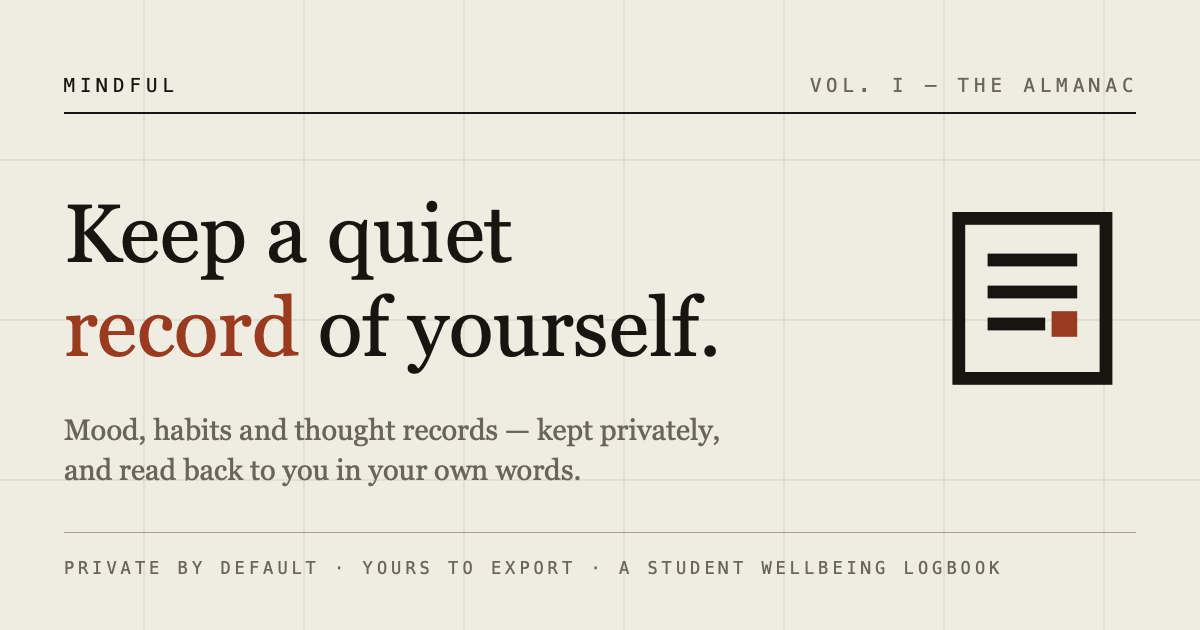
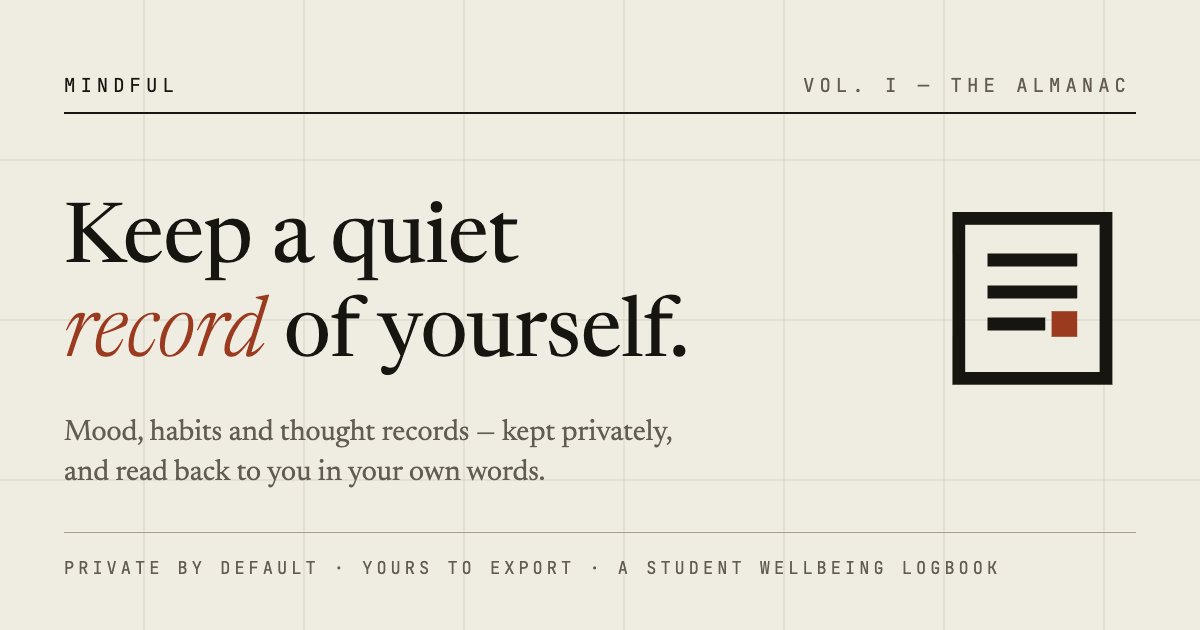
Finish the pages: short running head, a readable calendar on touch, an italic share image (batch 4)
- D2: on touch screens the habit calendar's 14px cells are display-only (no
  tap stop, tooltip or hover zoom), and the same day-by-day detail is offered
  as text in 'Read the calendar as a list' beneath them. That detail was never
  reachable by screen readers before; now it is.
- B3: phones show the short date in the masthead ('2 Oct 2026') instead of
  a long one cut mid-word.
- B9: the register shows '—', not '0/0 done today', while it loads.
- B12: the reading's load error is labelled like every other page's.
- A11: the pages' static inline styles are classes on tokens.
- The mood chart's range handle is 44px tall on touch (24px handles).
- B14: public/og-image.png is rendered in the browser (scripts/render-og-image.mjs)
  so 'record' is italic Newsreader, as on the site; the source uses the new
  --muted.

diff --git a/src/frontend/components/HabitHeatmap.jsx b/src/frontend/components/HabitHeatmap.jsx
@@ -1,5 +1,6 @@
 import { useMemo } from 'react'
 import { toLocalISODate } from '@shared/utils/date'
+import useTouchLayout from '@design/theme/useTouchLayout'
 
 const WEEKS_TO_SHOW = 12
 const DAYS_TO_SHOW = WEEKS_TO_SHOW * 7
@@ -15,9 +16,14 @@ function bucket(count, maxCount) {
 }
 
 const MONTH_FMT = new Intl.DateTimeFormat(undefined, { month: 'short' })
+const DAY_FMT = new Intl.DateTimeFormat(undefined, { weekday: 'short', day: 'numeric', month: 'short' })
 
+// On a touch screen the 14px cells are display-only — too small to tap, and a
+// tooltip needs a pointer — and the same day-by-day detail is offered as text
+// in "Read the calendar as a list" beneath them.
 export default function HabitHeatmap({ habits, logsByHabit, id }) {
-  const { weeks, maxCount, totalMarks, monthMarks } = useMemo(() => {
+  const touch = useTouchLayout()
+  const { days, weeks, maxCount, totalMarks, monthMarks } = useMemo(() => {
     const byDate = {}
     for (const habit of habits) {
       for (const date of logsByHabit[habit.id] ?? []) {
@@ -64,6 +70,7 @@ export default function HabitHeatmap({ habits, logsByHabit, id }) {
     })
 
     return {
+      days,
       weeks,
       maxCount: Math.max(1, ...days.map((d) => d.count)),
       totalMarks: days.reduce((sum, d) => sum + d.count, 0),
@@ -83,6 +90,7 @@ export default function HabitHeatmap({ habits, logsByHabit, id }) {
 
       <div
         className="heat"
+        data-static={touch ? 'true' : undefined}
         role="img"
         aria-label={`Habit completion calendar for the last ${WEEKS_TO_SHOW} weeks, ${totalMarks} marks in total`}
       >
@@ -112,11 +120,11 @@ export default function HabitHeatmap({ habits, logsByHabit, id }) {
                     data-level={day.isFuture ? undefined : bucket(day.count, maxCount)}
                     data-future={day.isFuture ? 'true' : undefined}
                     title={
-                      day.isFuture
+                      day.isFuture || touch
                         ? undefined
                         : `${day.date}: ${day.count === 0 ? 'nothing logged' : day.names.join(', ')}`
                     }
-                    tabIndex={day.isFuture ? -1 : 0}
+                    tabIndex={day.isFuture ? -1 : touch ? undefined : 0}
                   />
                 ))}
               </div>
@@ -124,6 +132,24 @@ export default function HabitHeatmap({ habits, logsByHabit, id }) {
           </div>
         </div>
       </div>
+
+      {touch && (
+        <details className="heat-list">
+          <summary>Read the calendar as a list</summary>
+          <ol>
+            {days
+              .filter((day) => !day.isFuture && day.count > 0)
+              .reverse()
+              .map((day) => (
+                <li key={day.date}>
+                  <span className="heat-list-date">{DAY_FMT.format(day.day)}</span>
+                  <span>{day.names.join(', ')}</span>
+                </li>
+              ))}
+          </ol>
+          <p className="heat-list-note">Days not listed: nothing ticked.</p>
+        </details>
+      )}
 
       <div className="heat-legend">
         <span>Fewer</span>

diff --git a/src/frontend/pages/Signup.jsx b/src/frontend/pages/Signup.jsx
@@ -45,16 +45,16 @@ export default function Signup() {
       <Frontispiece>
         <Reveal className="plate" index={1} y={18}>
           <div className="plate-head">
-            <p className="mono" style={{ color: 'var(--accent)', margin: '0 0 0.5rem' }}>
+            <p className="mono">
               Page one
             </p>
             <h1>Your book is open</h1>
           </div>
-          <p style={{ color: 'var(--muted)', marginTop: 0 }}>
-            Registered to <strong style={{ color: 'var(--text)' }}>{email}</strong>. If email
+          <p className="plate-body">
+            Registered to <strong>{email}</strong>. If email
             confirmation is switched on for this project, confirm from your inbox before signing in.
           </p>
-          <Link className="btn btn--solid btn--block" to="/login" style={{ marginTop: '1.25rem' }}>
+          <Link className="btn btn--solid btn--block" to="/login">
             Go to sign in
           </Link>
         </Reveal>
@@ -66,7 +66,7 @@ export default function Signup() {
     <Frontispiece>
       <Reveal as="form" className="plate" index={1} y={18} onSubmit={handleSubmit}>
         <div className="plate-head">
-          <p className="mono" style={{ color: 'var(--accent)', margin: '0 0 0.5rem' }}>
+          <p className="mono">
             New volume
           </p>
           <h1>Start your book</h1>

diff --git a/src/design/styles/parts/14-heatmap-the-almanac-calendar.css b/src/design/styles/parts/14-heatmap-the-almanac-calendar.css
@@ -98,3 +98,70 @@
   flex-shrink: 0;
   white-space: nowrap;
 }
+
+.heat-legend--spread {
+  justify-content: space-between;
+}
+
+.mood-faces {
+  display: flex;
+  gap: var(--space-2);
+  color: var(--rule);
+}
+
+/* Touch: the cells are display-only (see HabitHeatmap.jsx). */
+.heat[data-static] .heat-cell:hover {
+  outline: none;
+  transform: none;
+}
+
+/* The calendar as text, for touch screens. */
+.heat-list {
+  margin-top: var(--space-4);
+  border-top: var(--hair) solid var(--border);
+}
+
+.heat-list summary {
+  display: flex;
+  align-items: center;
+  min-height: var(--target);
+  cursor: pointer;
+  font-family: var(--font-mono);
+  font-size: var(--text-2xs);
+  letter-spacing: 0.14em;
+  text-transform: uppercase;
+  color: var(--text);
+}
+
+.heat-list ol {
+  margin: 0;
+  padding: 0;
+  list-style: none;
+}
+
+.heat-list li {
+  display: flex;
+  gap: var(--space-3);
+  padding: var(--space-2) 0;
+  border-bottom: var(--hair) solid var(--border);
+  font-size: var(--text-sm);
+  overflow-wrap: anywhere;
+}
+
+.heat-list-date {
+  flex-shrink: 0;
+  min-width: 7em;
+  font-family: var(--font-mono);
+  font-size: var(--text-3xs);
+  letter-spacing: 0.1em;
+  text-transform: uppercase;
+  color: var(--muted);
+  padding-top: var(--space-1);
+}
+
+.heat-list-note {
+  margin: var(--space-2) 0 0;
+  font-size: var(--text-xs);
+  color: var(--muted);
+}
+

diff --git a/src/frontend/pages/Mood.jsx b/src/frontend/pages/Mood.jsx
@@ -13,6 +13,7 @@ import {
 import { listRecentMoodsChronological, createMood, countMoods } from '@backend/services/moods'
 import { useAuth } from '@backend/auth/AuthContext'
 import useLiveAccentColor from '@design/theme/useLiveAccentColor'
+import useTouchLayout from '@design/theme/useTouchLayout'
 import { getMoodHistoryLength } from '@shared/utils/preferences'
 import { toLocalISODate, todayISO } from '@shared/utils/date'
 import FormSuccess from '@frontend/components/FormSuccess'
@@ -69,6 +70,7 @@ function averageOfDays(logs) {
 export default function Mood() {
   const { user } = useAuth()
   const accent = useLiveAccentColor()
+  const touch = useTouchLayout()
   const [logs, setLogs] = useState([])
   const [loading, setLoading] = useState(true)
   // Nothing is chosen until the reader chooses. A preset middle score would be
@@ -324,10 +326,10 @@ export default function Mood() {
                   {chartData.length > BRUSH_THRESHOLD && (
                     <Brush
                       dataKey="date"
-                      height={22}
+                      height={touch ? 44 : 22}
                       stroke={accent}
                       fill="transparent"
-                      travellerWidth={8}
+                      travellerWidth={touch ? 24 : 8}
                     />
                   )}
                 </ComposedChart>

diff --git a/src/frontend/pages/Dashboard.jsx b/src/frontend/pages/Dashboard.jsx
@@ -119,7 +119,7 @@ export default function Dashboard() {
             : "Everything you've written down lately, on one page. Pick a line to open it."}
         </p>
         {isNewBook && (
-          <Link to="/mood" className="btn btn--solid" style={{ marginTop: '1.4rem' }}>
+          <Link to="/mood" className="btn btn--solid folio-cta">
             <Icon name="plus" size={15} />
             Log your first mood
           </Link>
@@ -293,9 +293,9 @@ export default function Dashboard() {
               </BarChart>
             </ResponsiveContainer>
           </div>
-          <div className="heat-legend" style={{ justifyContent: 'space-between' }}>
+          <div className="heat-legend heat-legend--spread">
             <span>Click a column to open the mood page</span>
-            <span aria-hidden="true" style={{ display: 'flex', gap: '0.4rem', color: 'var(--rule)' }}>
+            <span aria-hidden="true" className="mood-faces">
               {MOOD_SCORES.map((s) => (
                 <MoodFace key={s} score={s} size={16} />
               ))}

diff --git a/src/frontend/layouts/AppLayout.jsx b/src/frontend/layouts/AppLayout.jsx
@@ -22,6 +22,12 @@ function runningHead() {
   })
 }
 
+// Phones get the short form: the long one cannot fit beside the masthead's
+// two buttons and was cut to "THURSDAY, 1 OCTO…".
+function shortRunningHead() {
+  return new Date().toLocaleDateString(undefined, { day: 'numeric', month: 'short', year: 'numeric' })
+}
+
 export default function AppLayout({ children }) {
   const [searchOpen, setSearchOpen] = useState(false)
   const [railOpen, setRailOpen] = useState(false)
@@ -54,7 +60,9 @@ export default function AppLayout({ children }) {
               Mindful
             </Link>
             <p className="masthead-slug">
-              <b>{runningHead()}</b> · Vol. I
+              <b className="masthead-date-long">{runningHead()}</b>
+              <b className="masthead-date-short">{shortRunningHead()}</b>
+              <span className="masthead-vol"> · Vol. I</span>
             </p>
             <div className="masthead-tools">
               <button

diff --git a/src/frontend/pages/Habits.jsx b/src/frontend/pages/Habits.jsx
@@ -163,9 +163,7 @@ export default function Habits() {
         </div>
         <div className="folio-meta">
           <span>
-            <b>
-              {doneCount}/{habits.length}
-            </b>{' '}
+            <b>{loading ? '—' : `${doneCount}/${habits.length}`}</b>{' '}
             done today
           </span>
           <span>{new Date().toLocaleDateString(undefined, { day: '2-digit', month: 'short' })}</span>
@@ -175,7 +173,7 @@ export default function Habits() {
       <FormError message={error} label="Register" />
 
       <Reveal as="form" className="inline-form" index={1} onSubmit={addHabit}>
-        <label className="mono" htmlFor="new-habit" style={{ position: 'absolute', left: -9999 }}>
+        <label className="mono visually-hidden" htmlFor="new-habit">
           New habit
         </label>
         <input

diff --git a/src/frontend/pages/ThoughtRecords.jsx b/src/frontend/pages/ThoughtRecords.jsx
@@ -296,7 +296,7 @@ export default function ThoughtRecords() {
       </Reveal>
 
       <Reveal as="section" index={2}>
-        <div className="panel-head" style={{ borderBottomColor: 'var(--text)' }}>
+        <div className="panel-head panel-head--ruled">
           <span className="panel-head-num">§ 02</span>
           <h2>On file</h2>
           <span className="panel-head-note">Newest first</span>
@@ -321,7 +321,7 @@ export default function ThoughtRecords() {
                   </span>
                 </div>
 
-                <dl style={{ margin: 0 }}>
+                <dl className="note-body">
                   <div className="note-line">
                     <dt>Thought</dt>
                     <dd className="note-quote">"{r.automatic_thought}"</dd>

diff --git a/src/design/theme/useTouchLayout.js b/src/design/theme/useTouchLayout.js
@@ -1,0 +1,20 @@
+import { useEffect, useState } from 'react'
+
+// The touch layout, as JavaScript sees it. Same query as the touch-target
+// block at the end of styles/parts/23-responsive.css; change them together.
+export const TOUCH_QUERY = '(pointer: coarse), (max-width: 768px)'
+
+export default function useTouchLayout() {
+  const [touch, setTouch] = useState(() => window.matchMedia(TOUCH_QUERY).matches)
+
+  useEffect(() => {
+    const mq = window.matchMedia(TOUCH_QUERY)
+    function update() {
+      setTouch(mq.matches)
+    }
+    mq.addEventListener('change', update)
+    return () => mq.removeEventListener('change', update)
+  }, [])
+
+  return touch
+}

diff --git a/src/frontend/pages/Login.jsx b/src/frontend/pages/Login.jsx
@@ -51,7 +51,7 @@ export default function Login() {
     <Frontispiece>
       <Reveal as="form" className="plate" index={1} y={18} onSubmit={handleSubmit}>
         <div className="plate-head">
-          <p className="mono" style={{ color: 'var(--accent)', margin: '0 0 0.5rem' }}>
+          <p className="mono">
             Returning reader
           </p>
           <h1>Open your book</h1>

diff --git a/src/design/styles/parts/23-responsive.css b/src/design/styles/parts/23-responsive.css
@@ -107,6 +107,16 @@
     max-width: none; /* stacked under the title, it has the full width */
   }
 
+  /* The running head: the short date, and no volume, beside two buttons. */
+  .masthead-date-long,
+  .masthead-vol {
+    display: none;
+  }
+
+  .masthead-date-short {
+    display: inline;
+  }
+
   .panel {
     padding: var(--space-5) var(--space-4);
   }

diff --git a/src/design/styles/base.css b/src/design/styles/base.css
@@ -264,3 +264,16 @@ button {
     opacity: 0;
   }
 }
+
+/* Read by screen readers, not drawn. */
+.visually-hidden {
+  position: absolute;
+  width: 1px;
+  height: 1px;
+  margin: -1px;
+  padding: 0;
+  overflow: hidden;
+  clip-path: inset(50%);
+  white-space: nowrap;
+  border: 0;
+}
